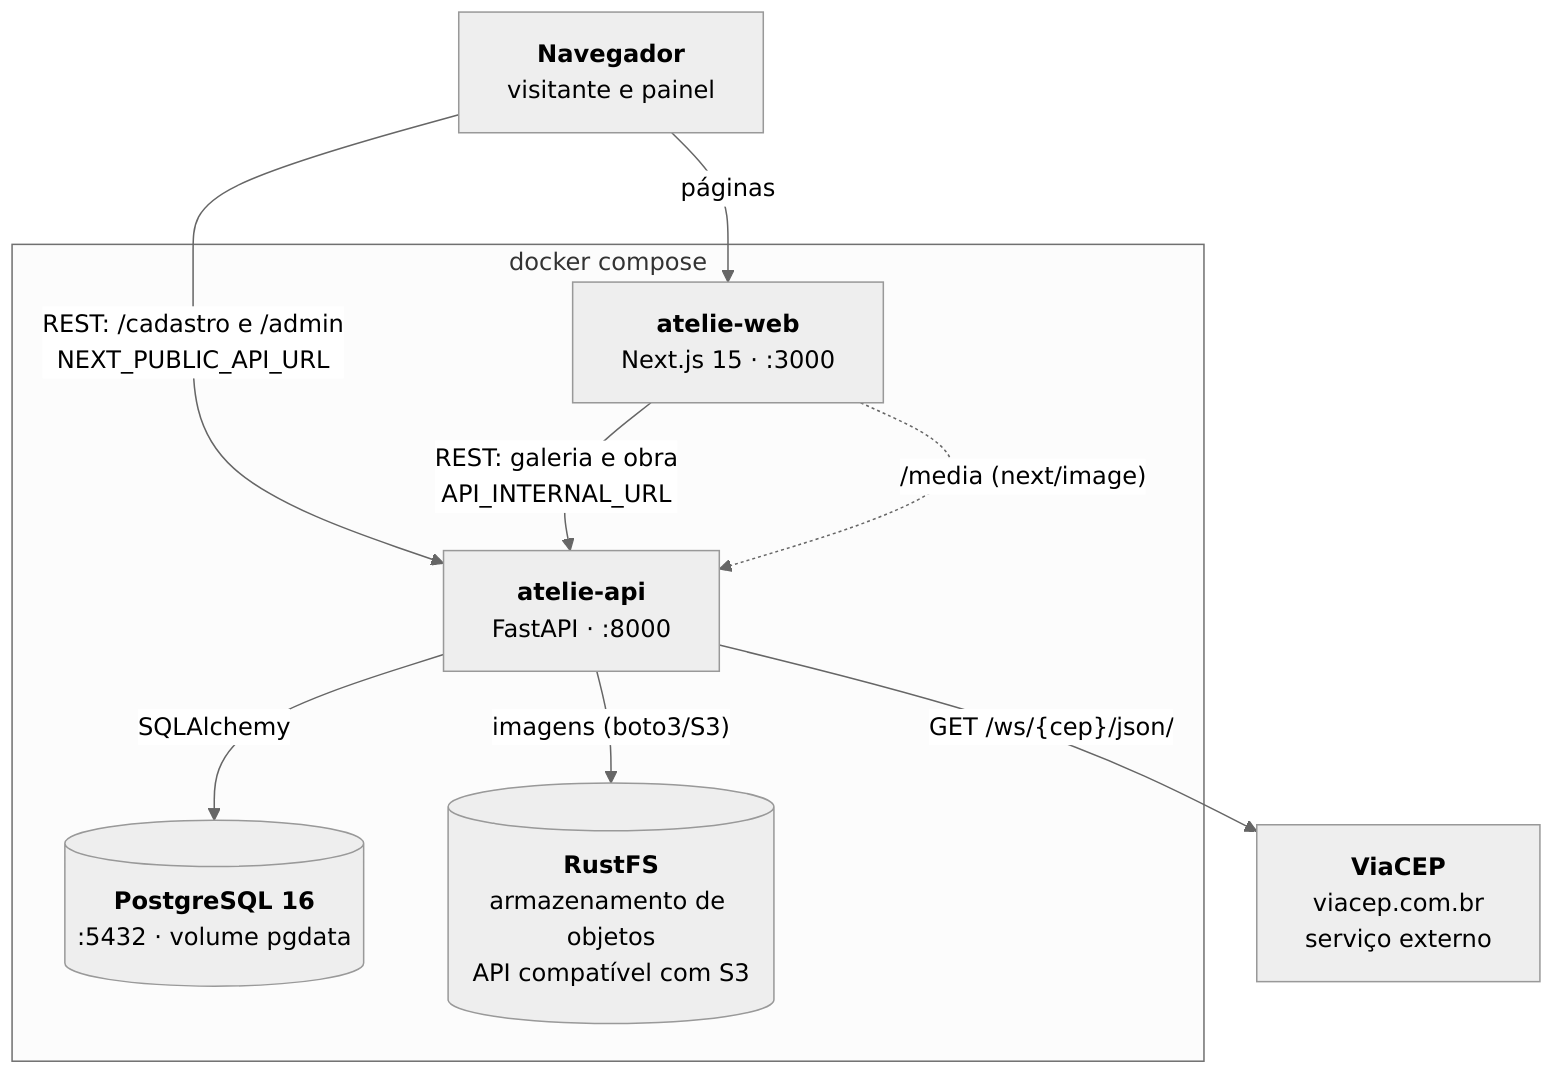
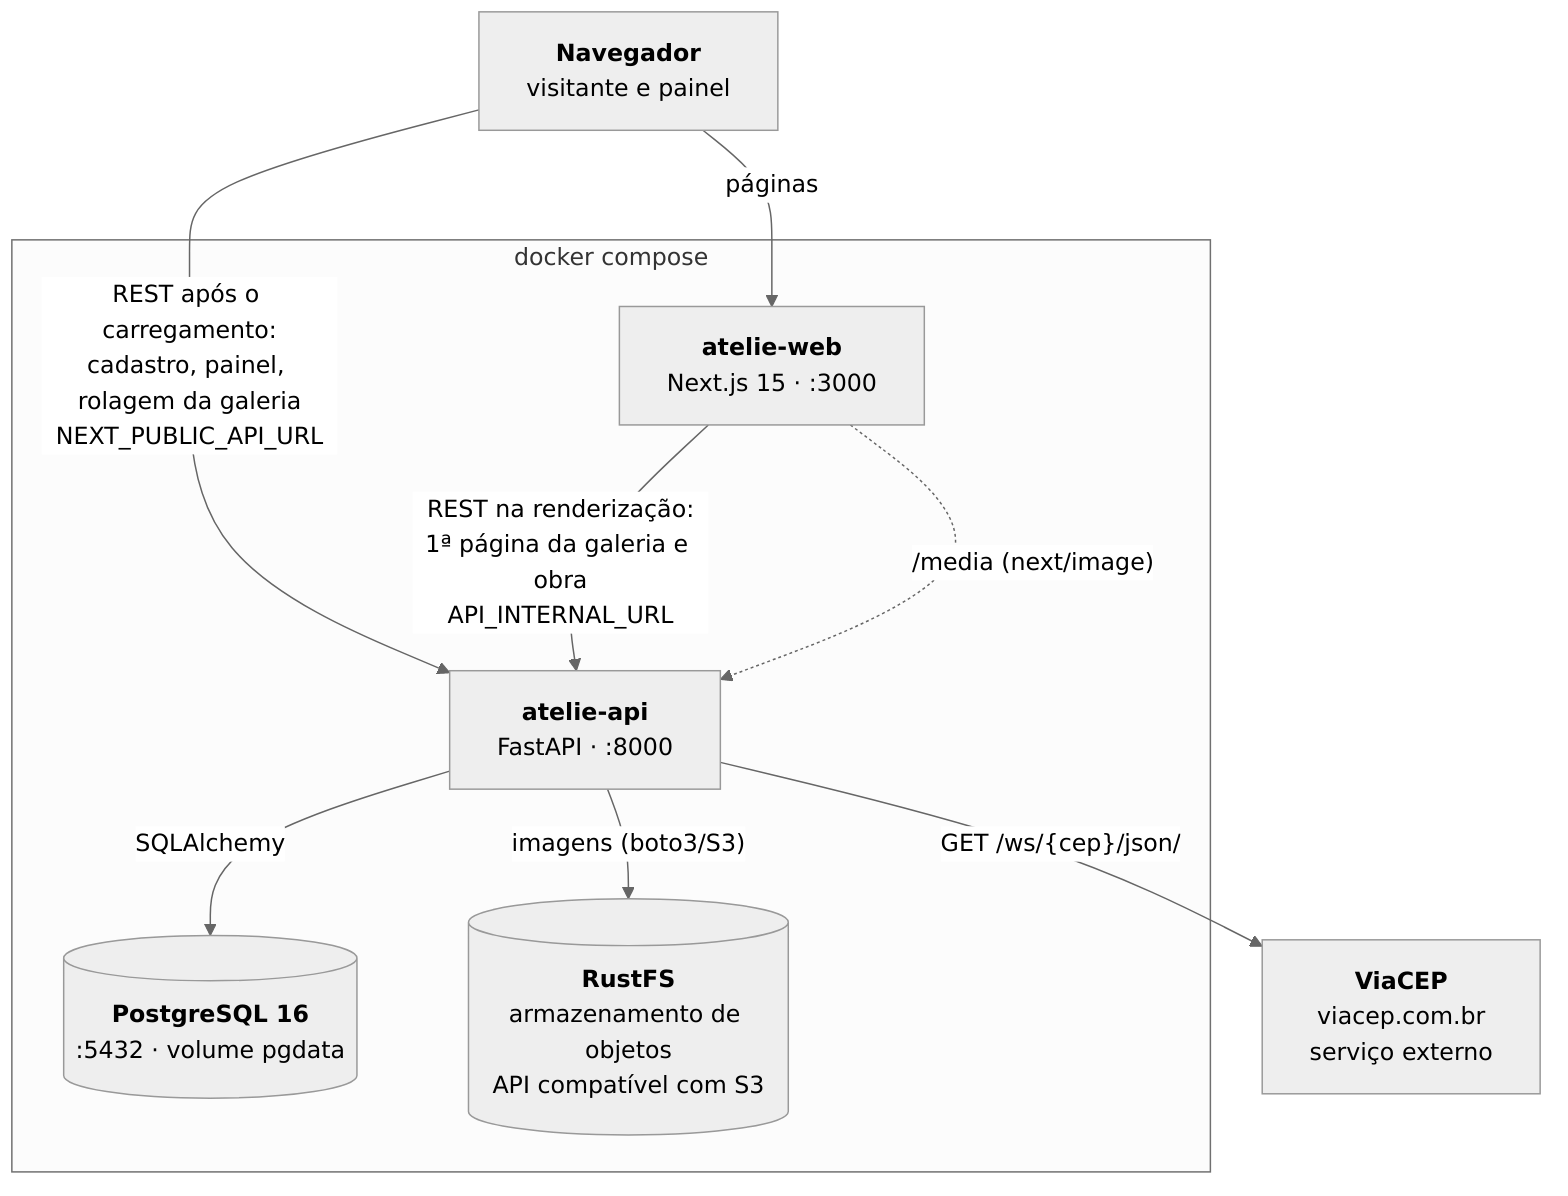
chore: diagrama e README refletem os dois caminhos da galeria
Os rotulos eram anteriores a rolagem infinita: a galeria agora usa a
seta do servidor (1a pagina) e a do navegador (paginas seguintes). O
README passa a explicar que o diagrama mostra quem abre a conexao HTTP
e como confirmar isso pelo IP no log da API.

diff --git a/README.md b/README.md
@@ -28,8 +28,8 @@ flowchart TB
     viacep["<b>ViaCEP</b><br/>viacep.com.br<br/>serviço externo"]
 
     browser -- "páginas" --> web
-    browser -- "REST: /cadastro e /admin<br/>NEXT_PUBLIC_API_URL" --> api
-    web -- "REST: galeria e obra<br/>API_INTERNAL_URL" --> api
+    browser -- "REST após o carregamento:<br/>cadastro, painel, rolagem da galeria<br/>NEXT_PUBLIC_API_URL" --> api
+    web -- "REST na renderização:<br/>1ª página da galeria e obra<br/>API_INTERNAL_URL" --> api
     web -. "/media (next/image)" .-> api
     api -- "SQLAlchemy" --> db
     api -- "imagens (boto3/S3)" --> storage
@@ -49,15 +49,27 @@ partir de [`docs/arquitetura.mmd`](docs/arquitetura.mmd) — que é a fonte do d
 
 ### Duas URLs para a mesma API
 
+Toda ação começa no navegador, mas o diagrama mostra **quem abre a conexão HTTP** com a
+API — e o servidor do Next também é cliente dela. Ao abrir a galeria, por exemplo, o
+navegador pede a página ao Next, e o Next pede os dados à API para montar o HTML; o
+navegador só recebe o resultado.
+
 A interface alcança a API por dois caminhos, e a escolha está concentrada num único
 arquivo, [`src/lib/api.ts`](src/lib/api.ts) — nenhum componente monta URL de API por
 conta própria.
 
-- **Servidor do Next** (galeria e página da obra, que são Server Components): fala com
-  `API_INTERNAL_URL` = `http://api:8000`, o nome do serviço na rede interna do Docker.
-- **Navegador** (cadastro e painel, que são Client Components): fala com
-  `NEXT_PUBLIC_API_URL` = `http://localhost:8000`, a porta publicada no host. O navegador
-  não conhece o nome `api`; por isso a API libera essa origem no CORS.
+- **Servidor do Next, na renderização** (primeira página da galeria e página da obra,
+  que são Server Components): fala com `API_INTERNAL_URL` = `http://api:8000`, o nome do
+  serviço na rede interna do Docker.
+- **Navegador, depois que a página carregou** (cadastro, painel e as páginas seguintes da
+  rolagem infinita, em Client Components): fala com `NEXT_PUBLIC_API_URL` =
+  `http://localhost:8000`, a porta publicada no host. O navegador não conhece o nome
+  `api`; por isso a API libera essa origem no CORS.
+
+O log da API mostra a diferença pelo IP de quem chamou (`docker compose logs -f api`):
+a primeira página da galeria chega com o IP do contêiner `web` na rede do Docker
+(`172.x.x.x`); as páginas seguintes da rolagem chegam com o IP da máquina onde o
+navegador está.
 
 As imagens são um terceiro caso: quem baixa o arquivo original é o otimizador do
 `next/image`, que roda no servidor. O [`next.config.ts`](next.config.ts) reescreve
